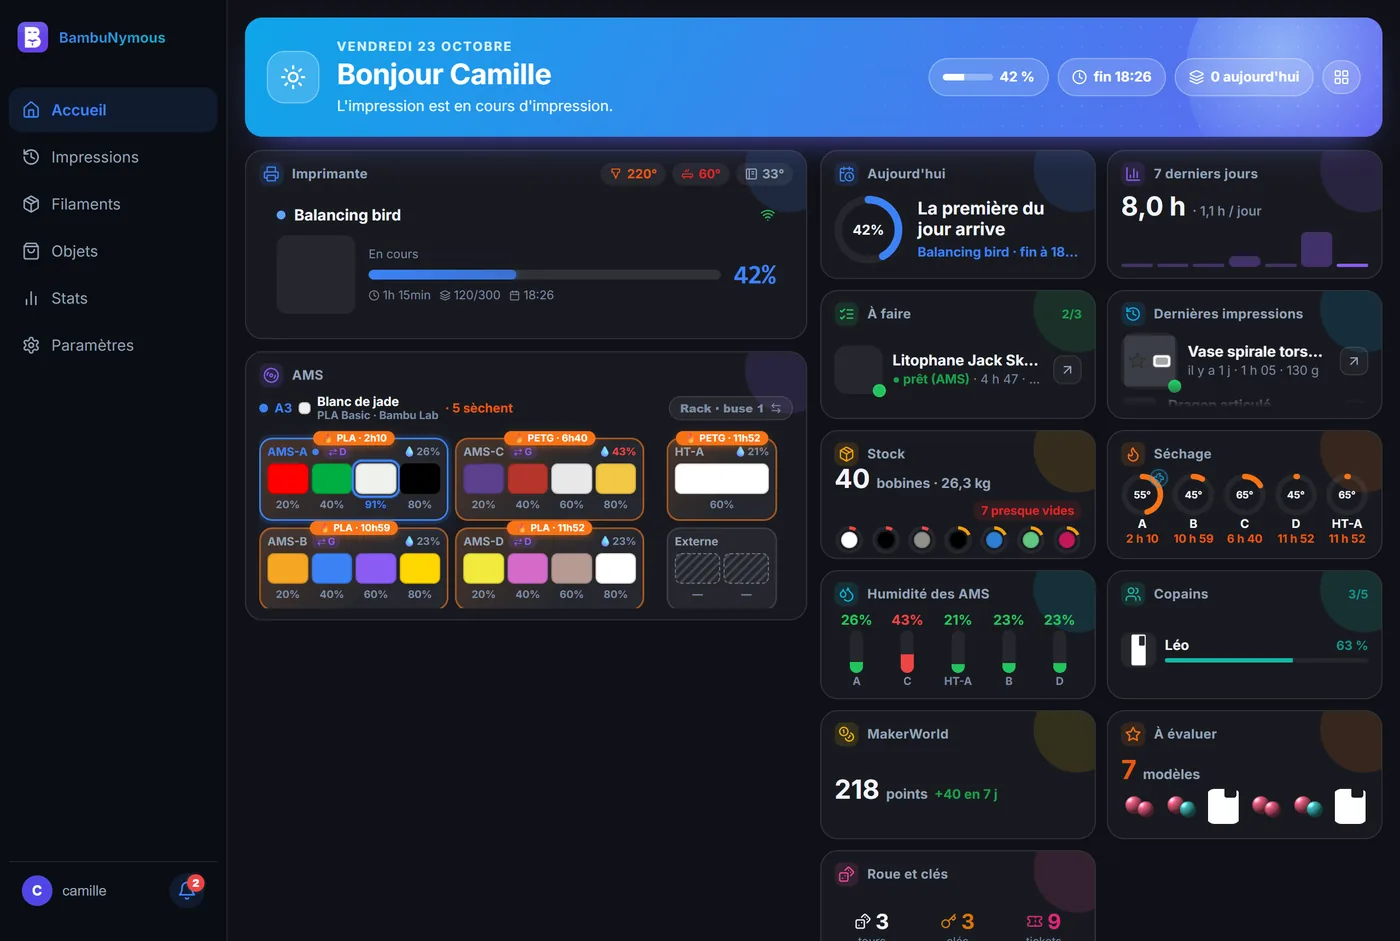
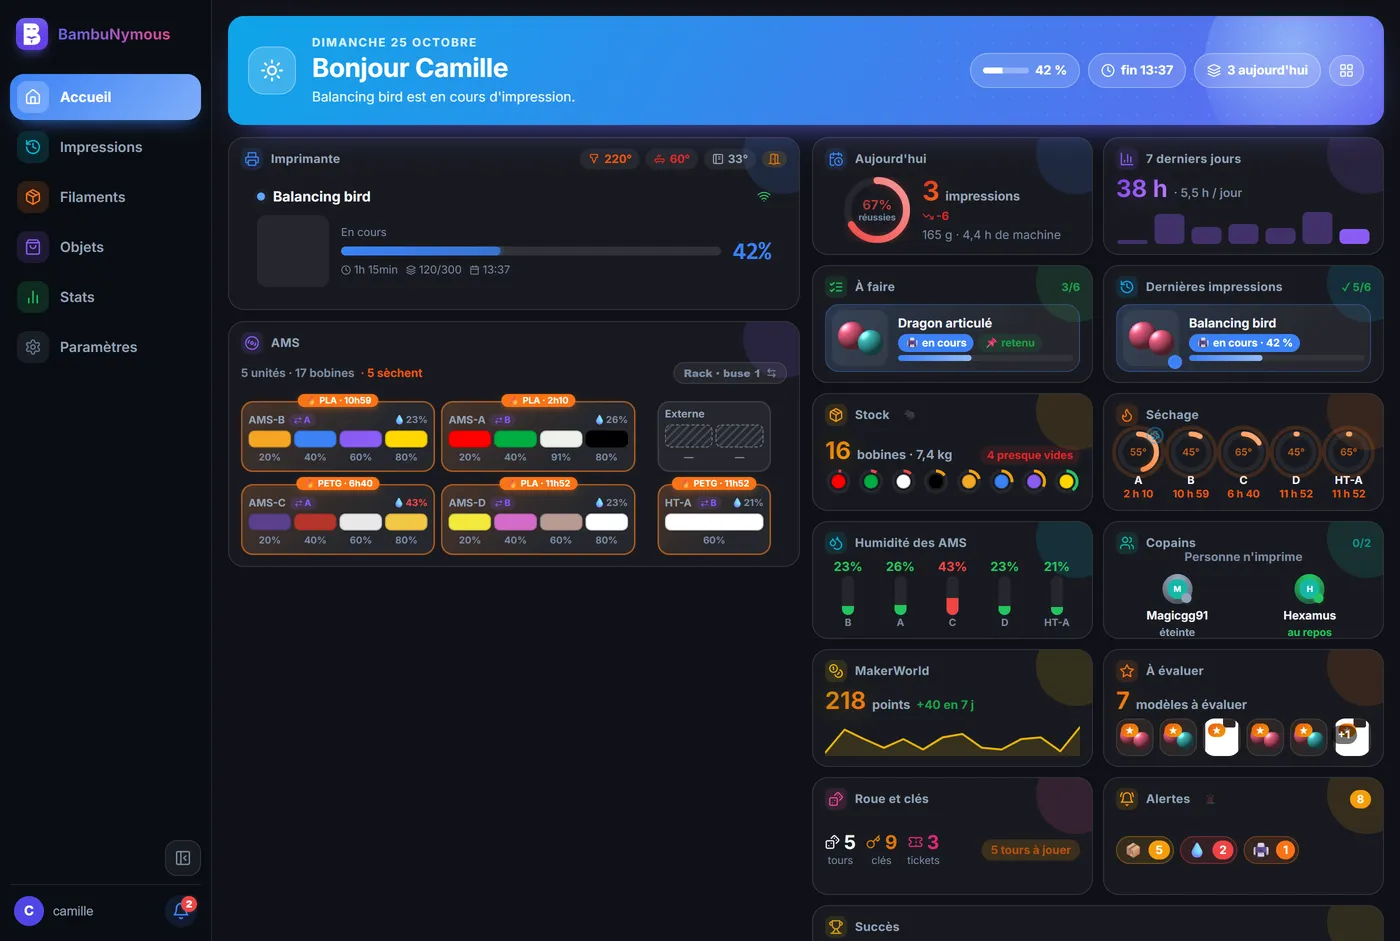
Ordinateur : barre latérale repliable et aux couleurs des pages
- chaque entrée a son icône dans la couleur de sa page ; la page ouverte est remplie en dégradé
- Replier / Déplier le menu : une colonne d'icônes (nom au survol), choix retenu ; repliée d'office sous 1100 px
- logo et nom en dégradé, compte et cloche empilés quand la barre est repliée
- guide et capture mis à jour

diff --git a/frontend/src/components/layout/Layout.jsx b/frontend/src/components/layout/Layout.jsx
@@ -2,7 +2,7 @@ import React, { useEffect } from "react";
 import { FriendChip } from "../Friends";
 import { useFriend } from "../../store/friend";
 import { Outlet, NavLink, useNavigate, useLocation } from "react-router-dom";
-import { Home, Settings, Package, History, ShoppingBag, BarChart2 } from "lucide-react";
+import { Home, Settings, Package, History, ShoppingBag, BarChart2, PanelLeftClose, PanelLeftOpen } from "lucide-react";
 import UserMenu from "../UserMenu";
 import NotifBell from "../NotifBell";
 import ShareProgress from "../ShareProgress";
@@ -19,13 +19,14 @@ import AchNews from "../AchNews";
 import { Hide } from "../Cachettes";
 import { MwLinkHost } from "../MwCreatorPage";
 
+// chaque page a sa couleur (celle de ses onglets) : la barre laterale la reprend
 const nav = [
-  { to: "/",          icon: Home,       label: "Accueil"    },
-  { to: "/prints",    icon: History,    label: "Impressions" },
-  { to: "/filaments", icon: Package,    label: "Filaments"  },
-  { to: "/objects",   icon: ShoppingBag,label: "Objets"     },
-  { to: "/stats",     icon: BarChart2,  label: "Stats"      },
-  { to: "/settings",  icon: Settings,   label: "Paramètres" },
+  { to: "/",          icon: Home,       label: "Accueil",     c: "#3B82F6" },
+  { to: "/prints",    icon: History,    label: "Impressions", c: "#06B6D4" },
+  { to: "/filaments", icon: Package,    label: "Filaments",   c: "#F97316" },
+  { to: "/objects",   icon: ShoppingBag,label: "Objets",      c: "#8B5CF6" },
+  { to: "/stats",     icon: BarChart2,  label: "Stats",       c: "#22C55E" },
+  { to: "/settings",  icon: Settings,   label: "Paramètres",  c: "#64748B" },
 ];
 
 // Titre affiche dans le header mobile : evite de redonder le <h1> de chaque page.
@@ -45,10 +46,11 @@ const S = {
   // correctif de hauteur iOS (voir index.css). Avec 100dvh, ce conteneur
   // recalculait sa propre hauteur trop courte et annulait le correctif.
   app:     { display:"flex", height:"100%", overflow:"hidden", background:"var(--bg)" },
-  aside:   { display:"flex", flexDirection:"column", width:208, background:"var(--sidebar)", borderRight:"1px solid var(--border)", padding:"20px 0", flexShrink:0 },
-  logo:    { display:"flex", alignItems:"center", gap:10, padding:"0 16px", marginBottom:32 },
+  aside:   { display:"flex", flexDirection:"column", width:212, background:"var(--sidebar)", borderRight:"1px solid var(--border)", padding:"18px 0 14px", flexShrink:0,
+    transition:"width .2s ease", overflow:"hidden" },
+  logo:    { display:"flex", alignItems:"center", gap:10, padding:"0 16px", marginBottom:24 },
   logoBox: { width:28, height:28, borderRadius:8, overflow:"hidden" },
-  nav:     { flex:1, padding:"0 8px", display:"flex", flexDirection:"column", gap:2 },
+  nav:     { flex:1, padding:"0 10px", display:"flex", flexDirection:"column", gap:4 },
   main:    { flex:1, display:"flex", flexDirection:"column", overflow:"hidden" },
   page:    { flex:1, overflowY:"auto", padding:16, paddingTop:"calc(16px + var(--sat, env(safe-area-inset-top, 0px)))", background:"var(--bg)" },
   // Mobile
@@ -78,19 +80,36 @@ const S = {
     paddingBottom:"calc(env(safe-area-inset-bottom, 0px) * 0.5)" },
 };
 
-function NavItem({ to, icon: Icon, label }) {
+// Une entree du menu : l'icone dans une pastille de la couleur de la page ; la page ouverte, en degrade.
+// Repliee : l'icone seule, le nom en infobulle.
+function NavItem({ to, icon: Icon, label, c, mini }) {
   return (
-    <NavLink to={to} end={to === "/"} style={({ isActive }) => ({
-      display:"flex", alignItems:"center", gap:10, padding:"10px 12px",
-      borderRadius:12, fontSize:14, textDecoration:"none", transition:"all 0.15s",
-      background: isActive ? "rgba(59,130,246,0.12)" : "transparent",
-      color: isActive ? "#3b82f6" : "var(--text2)",
-      fontWeight: isActive ? 600 : 400,
-    })}>
-      <Icon size={17} />
-      <span>{label}</span>
+    <NavLink to={to} end={to === "/"} className="bn-nav" data-tip={mini ? label : undefined} aria-label={label}
+      style={({ isActive }) => ({
+        "--c": c, display:"flex", alignItems:"center", gap:11, padding: mini ? "7px" : "7px 10px 7px 7px",
+        justifyContent: mini ? "center" : "flex-start", borderRadius:14, fontSize:14, textDecoration:"none", transition:"background .15s, box-shadow .15s",
+        background: isActive ? `linear-gradient(135deg, ${c}, color-mix(in srgb, ${c} 65%, #ffffff))` : "transparent",
+        boxShadow: isActive ? `0 8px 18px -10px ${c}` : "none",
+        color: isActive ? "#fff" : "var(--text2)", fontWeight: isActive ? 800 : 600, whiteSpace:"nowrap",
+      })}>
+      {({ isActive }) => (<>
+        <span style={{ width:32, height:32, borderRadius:10, flexShrink:0, display:"flex", alignItems:"center", justifyContent:"center",
+          background: isActive ? "rgba(255,255,255,0.22)" : `color-mix(in srgb, ${c} 16%, transparent)`, color: isActive ? "#fff" : c }}>
+          <Icon size={17}/></span>
+        {!mini && <span style={{ overflow:"hidden", textOverflow:"ellipsis" }}>{label}</span>}
+      </>)}
     </NavLink>
   );
+}
+
+// La barre laterale repliee ou non (retenu sur ce navigateur) ; sur un ecran etroit, repliee par defaut.
+function useSideMini() {
+  const [mini, setMini] = React.useState(() => {
+    try { const v = localStorage.getItem("bn-side-mini"); if (v != null) return v === "1"; } catch { /* indisponible */ }
+    return typeof window !== "undefined" && window.innerWidth < 1100;
+  });
+  const flip = () => setMini(m => { try { localStorage.setItem("bn-side-mini", m ? "0" : "1"); } catch { /* indisponible */ } return !m; });
+  return [mini, flip];
 }
 
 export default function Layout() {
@@ -98,6 +117,8 @@ export default function Layout() {
   const { pathname } = useLocation();
   const title = TITLES[pathname] ?? null;
   const friend = useFriend((st) => st.friend);   // chez un copain
+  const visitHome = useFriend((st) => st.visit);
+  const [mini, flipMini] = useSideMini();
   const headerRef = React.useRef(null);
   // gestes caches (voir eggs.js) ; le logo, lui, a le tournis facile
   React.useEffect(() => { installEggs(); }, []);
@@ -174,26 +195,43 @@ export default function Layout() {
   return (
     <div style={S.app}>
       {/* Sidebar desktop */}
-      <aside className="hidden-mobile" style={S.aside}>
-        <div style={{...S.logo, cursor:"pointer"}} onClick={() => { logoTap(); navigate("/"); }}>
-          <img src="/icon-192.png" {...logoHold} draggable={false} style={{ width:28, height:28, borderRadius:7, flexShrink:0, animation:logoAnim }} alt=""/>
-          <span style={{ fontWeight:700, fontSize:13, background:"linear-gradient(90deg,#3b82f6,#06b6d4)", WebkitBackgroundClip:"text", WebkitTextFillColor:"transparent" }}>
+      <aside className="hidden-mobile" style={{ ...S.aside, width: mini ? 72 : 212 }}>
+        <style>{`.bn-nav:hover { background: color-mix(in srgb, var(--c) 10%, transparent); }
+          .bn-nav[aria-current="page"]:hover { background: linear-gradient(135deg, var(--c), color-mix(in srgb, var(--c) 65%, #ffffff)); }`}</style>
+        <div style={{ ...S.logo, padding: mini ? "0" : "0 16px", justifyContent: mini ? "center" : "flex-start", cursor:"pointer" }}
+          onClick={() => { logoTap(); navigate("/"); }}>
+          <img src="/icon-192.png" {...logoHold} draggable={false} style={{ width:32, height:32, borderRadius:9, flexShrink:0, animation:logoAnim,
+            boxShadow:"0 6px 14px -6px #6366F1" }} alt=""/>
+          {!mini && <span style={{ fontWeight:900, fontSize:15, background:"linear-gradient(90deg,#6366F1,#EC4899)", WebkitBackgroundClip:"text", WebkitTextFillColor:"transparent",
+            whiteSpace:"nowrap" }}>
             BambuNymous
-          </span>
+          </span>}
           <Hide at="header"/>
         </div>
         {/* Chez un copain : rappel discret, retour en un geste. */}
-        {friend && <div style={{ padding:"0 12px 8px" }}><FriendChip block/></div>}
+        {friend && (mini
+          ? <div style={{ display:"flex", justifyContent:"center", paddingBottom:8 }}>
+              <button onClick={() => visitHome(null)} data-tip={`Chez ${friend.name} · revenir chez moi`} aria-label="Revenir chez moi"
+                style={{ width:40, height:40, borderRadius:12, border:"1px solid rgba(249,115,22,0.45)", background:"rgba(249,115,22,0.12)",
+                  cursor:"pointer", fontSize:17 }}>👀</button></div>
+          : <div style={{ padding:"0 12px 8px" }}><FriendChip block/></div>)}
         {/* Suivi d'un partage Telegram en arriere-plan (ShareProgress, par portail). */}
-        <div id="sidebar-status" style={{ display:"flex", flexDirection:"column", gap:6, padding:"0 12px" }}/>
+        <div id="sidebar-status" style={{ display:"flex", flexDirection:"column", gap:6, padding: mini ? "0 6px" : "0 12px", overflow:"hidden" }}/>
         <nav style={S.nav}>
-          {nav.map(n => <NavItem key={n.to} {...n} />)}
+          {nav.map(n => <NavItem key={n.to} {...n} mini={mini}/>)}
         </nav>
+        {/* Replier / deplier la barre */}
+        <div style={{ padding:"0 10px 8px", display:"flex", justifyContent: mini ? "center" : "flex-end" }}>
+          <button onClick={flipMini} aria-label={mini ? "Déplier le menu" : "Replier le menu"} data-tip={mini ? "Déplier le menu" : "Replier le menu"}
+            style={{ width:36, height:36, borderRadius:12, border:"1px solid var(--border)", background:"var(--surface2)", color:"var(--muted)",
+              cursor:"pointer", display:"flex", alignItems:"center", justifyContent:"center" }}>
+            {mini ? <PanelLeftOpen size={17}/> : <PanelLeftClose size={17}/>}</button>
+        </div>
         {/* Le compte remplace le bouton de deconnexion nu : meme place, en bas
             du menu, mais il indique aussi qui est connecte et sous quel role. */}
-        <div style={{ margin:"0 8px", padding:"10px 12px", borderTop:"1px solid var(--border)" }}>
-          <div style={{ display:"flex", alignItems:"center", gap:6 }}>
-            <div style={{ flex:1, minWidth:0 }}><UserMenu placement="top" showName size={28}/></div>
+        <div style={{ margin:"0 10px", padding: mini ? "10px 0 0" : "10px 4px 0", borderTop:"1px solid var(--border)" }}>
+          <div style={{ display:"flex", flexDirection: mini ? "column" : "row", alignItems:"center", gap: mini ? 10 : 6 }}>
+            <div style={{ flex: mini ? "none" : 1, minWidth:0 }}><UserMenu placement="top" showName={!mini} size={30}/></div>
             {!friend && <NotifBell size={18}/>}
           </div>
         </div>

diff --git a/backend/guide/pages/premiers-pas.html b/backend/guide/pages/premiers-pas.html
@@ -88,8 +88,9 @@
     <p>Sur un écran large, la navigation est une <b>barre latérale à gauche</b> :</p>
     <ul>
       <li>en haut, le logo <b>BambuNymous</b> : un clic ramène à l'accueil ;</li>
-      <li>puis les six entrées ;</li>
-      <li>tout en bas, ton <b>menu du compte</b> (rond violet avec ton initiale et ton nom) et, à droite, la <b>cloche</b> des notifications.</li>
+      <li>puis les six entrées, chacune avec son icône dans la couleur de sa page ; la page ouverte est remplie de sa couleur ;</li>
+      <li>le bouton <span class="ui">Replier le menu</span> : la barre se réduit à une colonne d'icônes (le nom de chaque page s'affiche au survol), et <span class="ui">Déplier le menu</span> la rouvre. Le choix est retenu sur ce navigateur ; sur un écran pas très large, la barre est repliée d'office ;</li>
+      <li>tout en bas, ton <b>menu du compte</b> (rond violet avec ton initiale et ton nom) et, à côté, la <b>cloche</b> des notifications.</li>
     </ul>
     <p>Chaque page affiche son titre en haut, avec ses boutons à droite.</p>
     <figure><img src="img/premiers-pas-ordinateur.webp" alt="L'accueil sur ordinateur avec la barre latérale"><figcaption>Sur ordinateur : barre latérale à gauche, compte et cloche en bas.</figcaption></figure>
